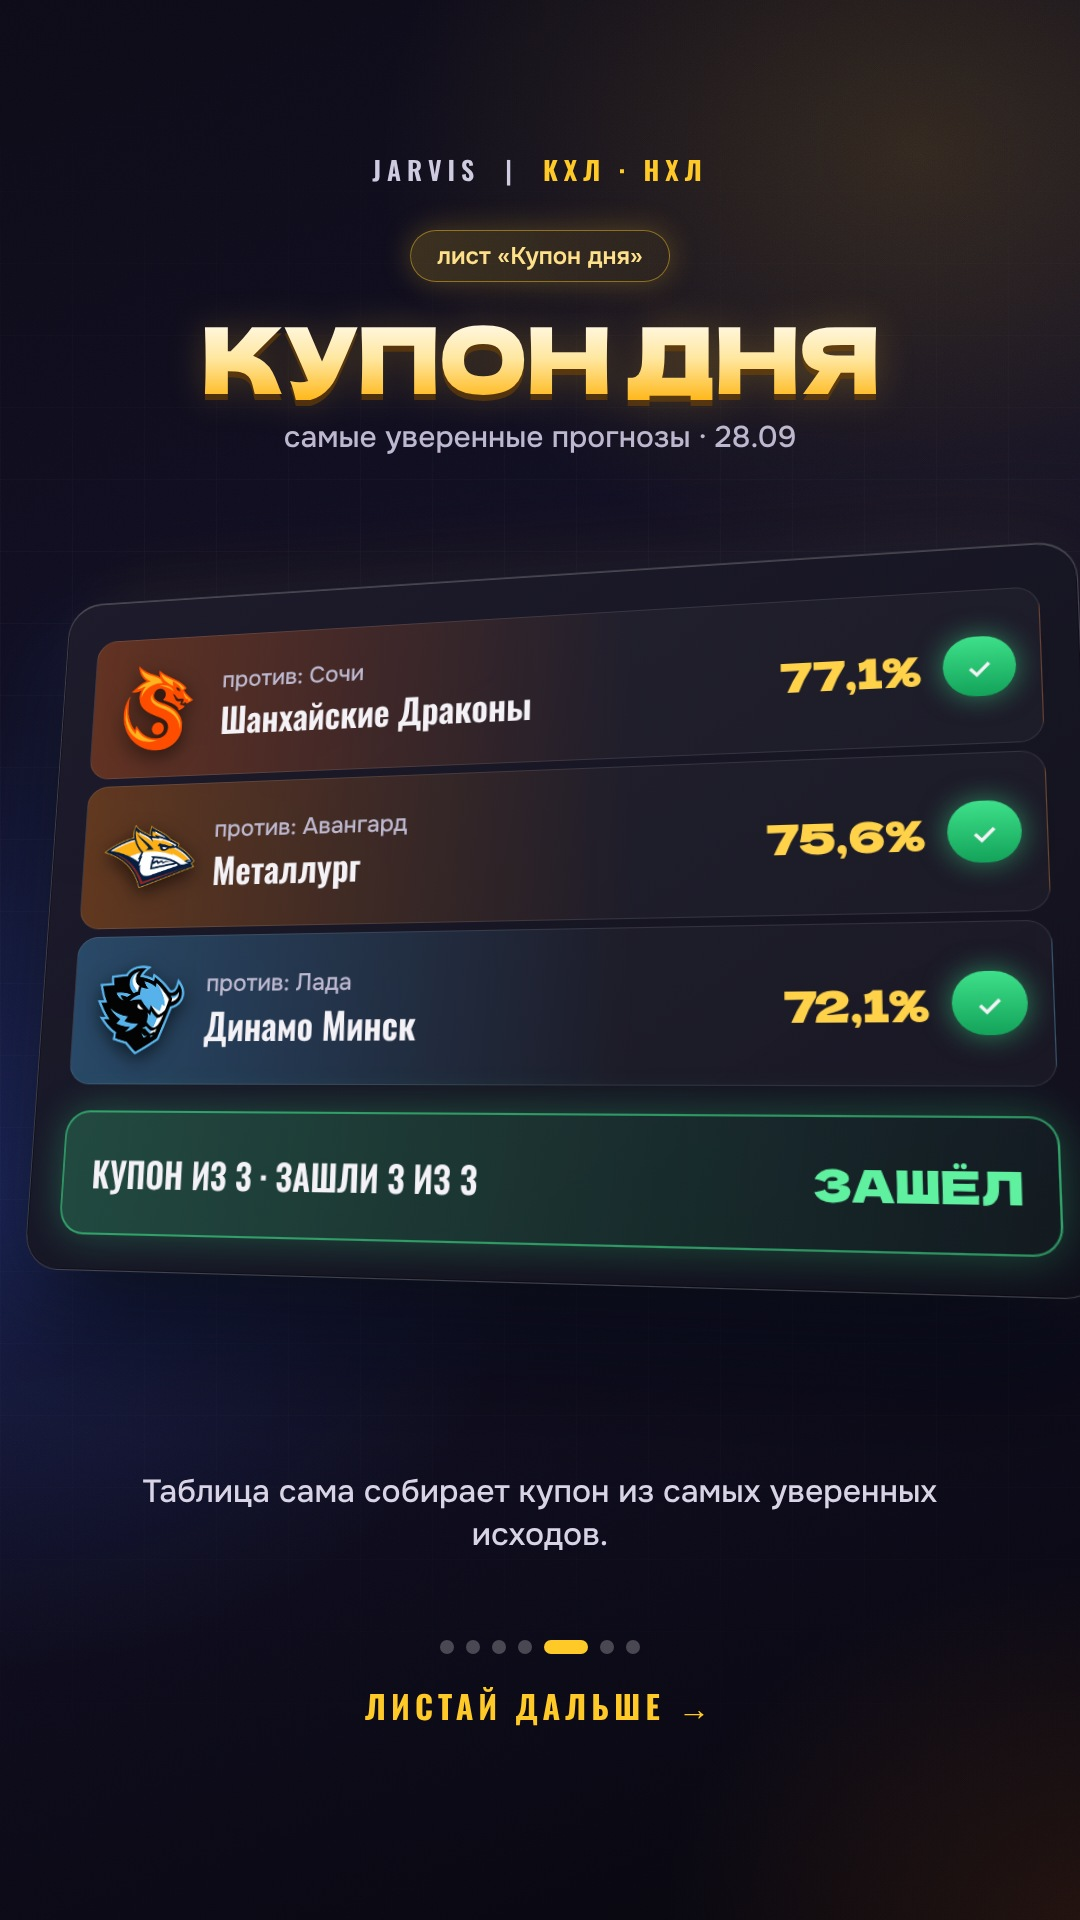
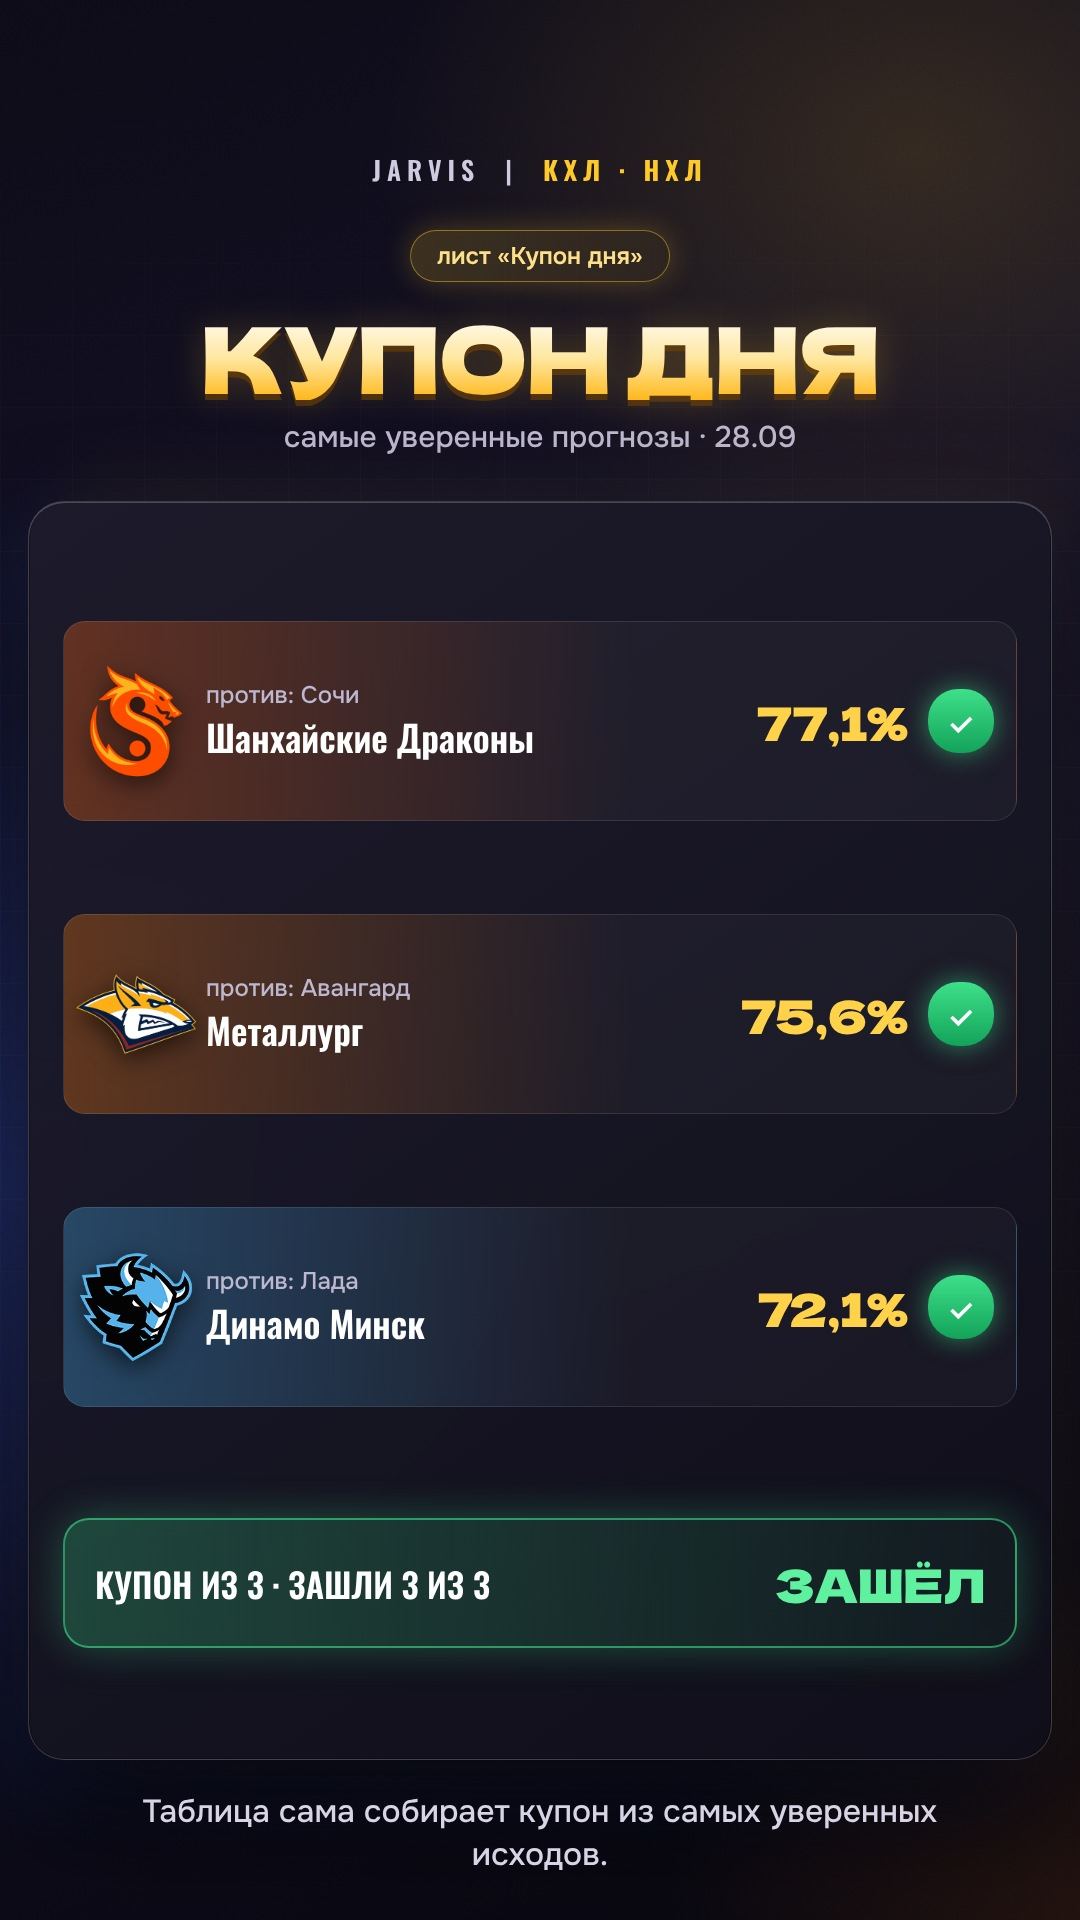
Хайлайт «Таблица» v5: все кадры прямо, вставки во весь экран

diff --git a/team/out/2026-10-27/shot.js b/team/out/2026-10-27/shot.js
@@ -1,2 +1,11 @@
 const {chromium}=require('playwright');(async()=>{const b=await chromium.launch();const p=await b.newPage({viewport:{width:1080,height:1920}});
-for(let i=1;i<=7;i++){await p.goto('file://'+process.argv[2]+'/table_'+i+'.html');await p.waitForTimeout(500);await p.screenshot({path:process.argv[2]+'/table_'+i+'.jpg',type:'jpeg',quality:93});}await b.close();})();
+for(let i=1;i<=7;i++){await p.goto('file://'+process.argv[2]+'/table_'+i+'.html');await p.waitForTimeout(400);
+await p.evaluate(()=>{const st=document.querySelector('.stage');const cap=document.querySelector('.cap');const card=st.querySelector('.card');
+ const hasCap=cap&&cap.textContent.trim();const top=document.querySelector('.t').getBoundingClientRect().bottom+45;const bottom=hasCap?1760:1850;
+ st.style.top=top+'px';
+ card.style.height=(bottom-top)+'px';card.style.display='flex';card.style.flexDirection='column';card.style.justifyContent='space-evenly';
+ const g=card.querySelector(':scope>div[style*="grid"]');if(g){g.style.flex='1';g.style.gridAutoRows='1fr';g.querySelectorAll('.row').forEach(r=>r.style.height='auto');}
+ card.querySelectorAll(':scope>.row').forEach(r=>{r.style.flex='1';r.style.height='auto';r.style.maxHeight='200px';});
+ card.style.fontSize='';document.body.classList.add('big');
+ if(hasCap)cap.style.top=(bottom+30)+'px';});
+await p.waitForTimeout(200);await p.screenshot({path:process.argv[2]+'/table_'+i+'.jpg',type:'jpeg',quality:93});}await b.close();})();

diff --git a/team/out/2026-10-27/sheet_stories_html.py b/team/out/2026-10-27/sheet_stories_html.py
@@ -75,6 +75,8 @@ h1{font:400 92px/1 Dela;letter-spacing:-1px;margin-top:26px;
 .bar i{display:block;height:100%%;border-radius:15px}
 .gold{background:linear-gradient(90deg,#ffb81c,#ffe27a);box-shadow:0 0 24px rgba(255,201,40,.7)}
 .blue{background:linear-gradient(90deg,#3a6dff,#8fb2ff);box-shadow:0 0 24px rgba(80,130,255,.7)}
+.big .name{font-size:42px}.big .cell{width:124px;height:76px;font-size:38px}.big .emb{transform:scale(1.2)}
+.big .ok,.big .no{width:110px;height:64px;font-size:30px}.big .big{font-size:46px}
 """ % {'f': FONTS}
 
 
@@ -114,7 +116,7 @@ def s1():
     b = '<div style="display:grid;grid-template-columns:1fr 1fr;gap:22px">' + ''.join(
         '<div class="row" style="height:165px;flex-direction:column;align-items:flex-start;justify-content:center;gap:6px">'
         '<div style="font:600 46px Osw;color:#fff"><span style="font-size:44px">%s</span>&nbsp; %s</div>'
-        '<div style="font:500 30px Onest;color:#d0cce0">%s</div></div>' % t for t in tiles) + '</div>'
+        '<div style="font:500 34px Onest;color:#d0cce0">%s</div></div>' % t for t in tiles) + '</div>'
     return page('24 листа · КХЛ и НХЛ', 'АНАЛИТИЧЕСКАЯ<br>ТАБЛИЦА', 'JARVIS · для прогнозов на хоккей',
                 '<div class="card">%s</div>' % b, '').replace('top:230px', 'top:210px') \
         .replace('<div class="stage" style="', '<div class="stage" style="top:600px;').replace('92px/1 Dela', '74px/1 Dela')
@@ -194,7 +196,7 @@ def s6():
         b += ('<div class="row" style="height:auto;padding:16px 22px;flex-direction:column;align-items:stretch;gap:8px">'
               '<div style="display:flex;align-items:center;gap:14px">%s%s<div class="name">%s — %s</div></div>') % (emb(h, 56), emb(a, 56), h, a)
         for v, cl in ((t, 'gold'), (k, 'blue')):
-            b += ('<div style="display:flex;align-items:center;gap:16px"><div class="bar" style="flex:1;height:22px">'
+            b += ('<div style="display:flex;align-items:center;gap:16px"><div class="bar" style="flex:1;height:32px">'
                   '<i class="%s" style="width:%d%%"></i></div><div style="width:90px;text-align:right;font:700 32px Osw">%d%%</div></div>') % (cl, v, v)
         b += '</div>'
     b += ('<div style="display:flex;justify-content:center;gap:50px;margin-top:18px;font:600 26px Onest">'
